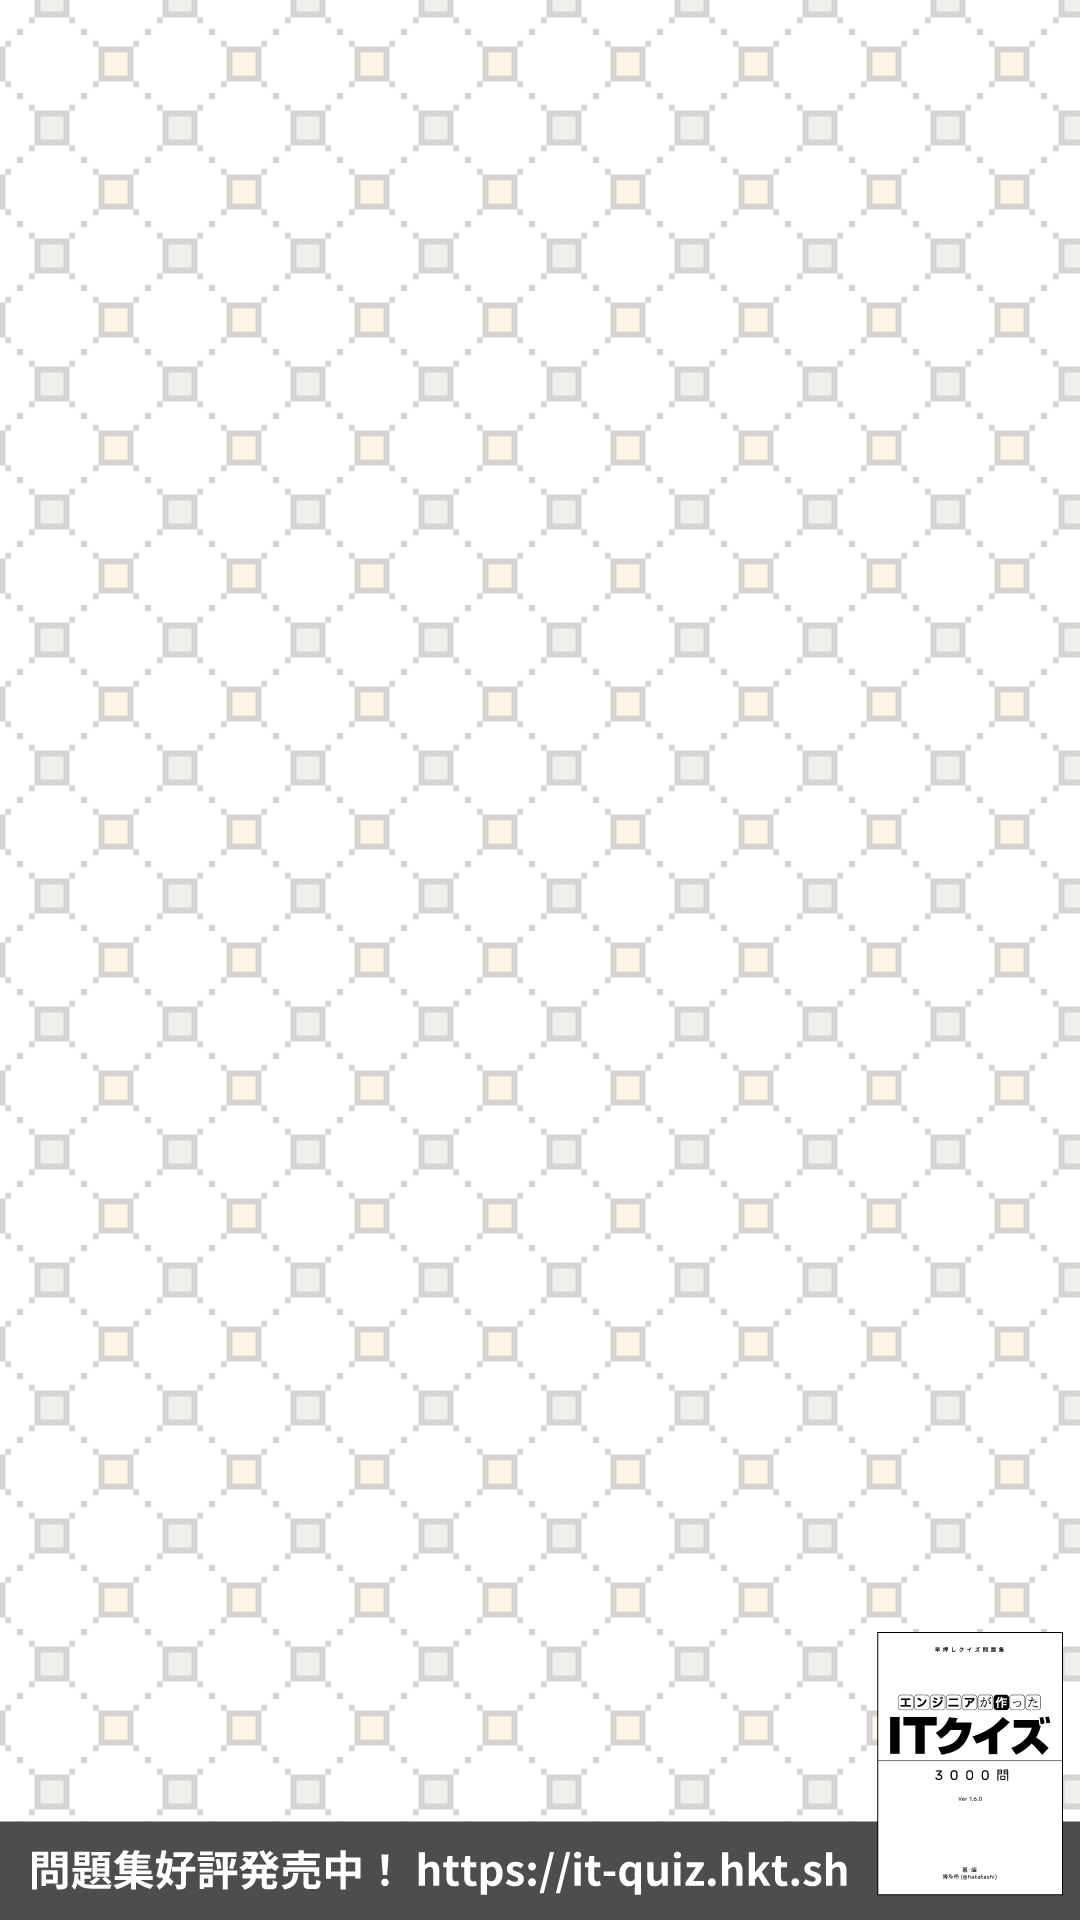
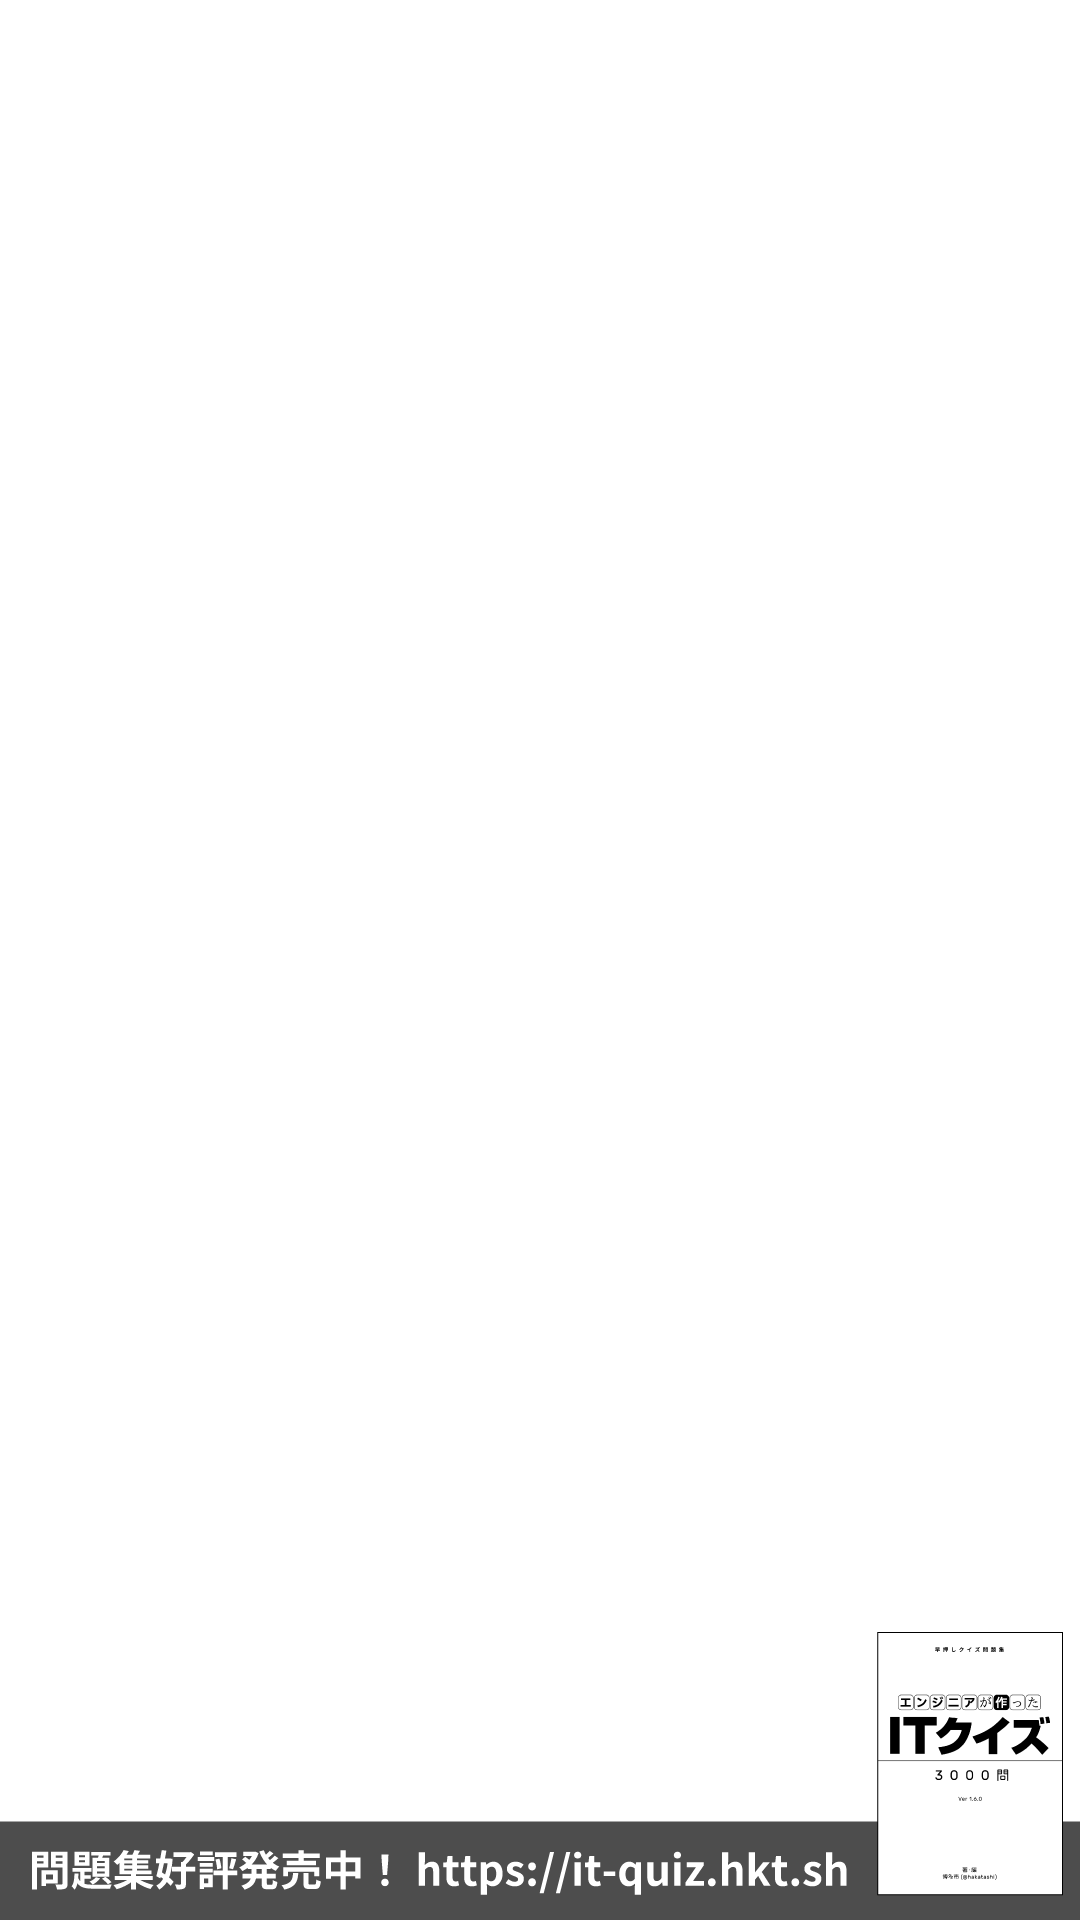
Add background image and update styles for quiz components; adjust title duration in Opening component

diff --git a/src/ItQuizComposition.tsx b/src/ItQuizComposition.tsx
@@ -1,4 +1,4 @@
-import {Audio, Sequence, staticFile} from 'remotion';
+import {Audio, Img, Sequence, staticFile, useCurrentFrame} from 'remotion';
 import {AbsoluteFill, useVideoConfig} from 'remotion';
 import {ItQuiz} from './ItQuiz';
 import {z} from 'zod';
@@ -46,6 +46,7 @@ export const ItQuizComposition: React.FC<
 	introQuestionImageCopyrightText,
 }) => {
 	const {fps} = useVideoConfig();
+	const frame = useCurrentFrame();
 
 	const quizDurations = quizzes.map((quiz) => {
 		const quizDuration = quiz.timepoints.reduce(
@@ -62,7 +63,21 @@ export const ItQuizComposition: React.FC<
 				volume={0.15}
 				startFrom={19 * fps}
 			/>
-			<Sequence durationInFrames={4 * fps}>
+			{/* Fake image to preload the background image */}
+			<Img
+				src={staticFile('images/bg_pattern.jpg')}
+				style={{opacity: 0, position: 'absolute', left: '-100%'}}
+			/>
+			<AbsoluteFill
+				className="background"
+				style={{
+					// eslint-disable-next-line @remotion/no-background-image
+					backgroundImage: `url(${staticFile('images/bg_pattern.jpg')})`,
+					// @ts-expect-error: CSS variable not recognized by TypeScript
+					'--background-offset': `${((frame / fps) / 30) * 100}%`,
+				}}
+			/>
+			<Sequence durationInFrames={3.5 * fps}>
 				<Opening
 					volumes={volumes}
 					date={date}
@@ -77,7 +92,7 @@ export const ItQuizComposition: React.FC<
 				<Sequence
 					key={index}
 					name={`Quiz ${index + 1}`}
-					from={sum(quizDurations.slice(0, index)) + 4 * fps}
+					from={sum(quizDurations.slice(0, index)) + 3.5 * fps}
 					durationInFrames={quizDurations[index]}
 				>
 					<ItQuiz
@@ -97,7 +112,7 @@ export const ItQuizComposition: React.FC<
 					/>
 				</Sequence>
 			))}
-			<Sequence from={sum(quizDurations) + 4 * fps}>
+			<Sequence from={sum(quizDurations) + 3.5 * fps}>
 				<Ending />
 			</Sequence>
 		</AbsoluteFill>

diff --git a/src/Opening.tsx b/src/Opening.tsx
@@ -46,12 +46,12 @@ export const Opening: React.FC<z.infer<typeof openingSchema>> = ({
 		durationInFrames: 20,
 	});
 
-	const titleDuration = Math.floor(fps * 1.5);
+	const titleDuration = Math.floor(fps * 1.3);
 	const introQuestionImageCopyrightTextLines =
 		introQuestionImageCopyrightText.split('\n');
 
 	return (
-		<AbsoluteFill style={{backgroundColor: 'white'}}>
+		<AbsoluteFill>
 			<Audio src={staticFile('soundeffects/和太鼓でドドン.mp3')} volume={0.7} />
 			<Img src={staticFile('images/opening1.png')} />
 			<Sequence durationInFrames={titleDuration}>

diff --git a/src/ItQuiz.tsx b/src/ItQuiz.tsx
@@ -238,7 +238,7 @@ export const ItQuiz: React.FC<z.infer<typeof itQuizSchema>> = ({
 	const answerReadingStartFrame = countdownEndFrame + answerPreparationDuration;
 
 	return (
-		<AbsoluteFill style={{backgroundColor: 'white'}}>
+		<AbsoluteFill>
 			<AbsoluteFill>
 				<Img src={staticFile('images/quiz.png')} />
 				<AbsoluteFill className="quiz_volume quiz_volume_quiz">

diff --git a/src/index.css b/src/index.css
@@ -1,5 +1,13 @@
 @import 'tailwindcss';
 
+.background {
+	background-image: none;
+	background-repeat: repeat;
+	background-position: calc(var(--background-offset, 0%) * 1)
+		calc(var(--background-offset, 0%) * 0.7);
+	opacity: 0.15;
+}
+
 .title1 {
 	position: absolute;
 	top: 280px;

diff --git a/src/Ending.tsx b/src/Ending.tsx
@@ -15,7 +15,7 @@ export const Ending: React.FC<z.infer<typeof endingSchema>> = () => {
 	});
 
 	return (
-		<AbsoluteFill style={{backgroundColor: 'white'}}>
+		<AbsoluteFill>
 			<Audio
 				src={staticFile('soundeffects/決定ボタンを押す1.mp3')}
 				volume={0.7}
